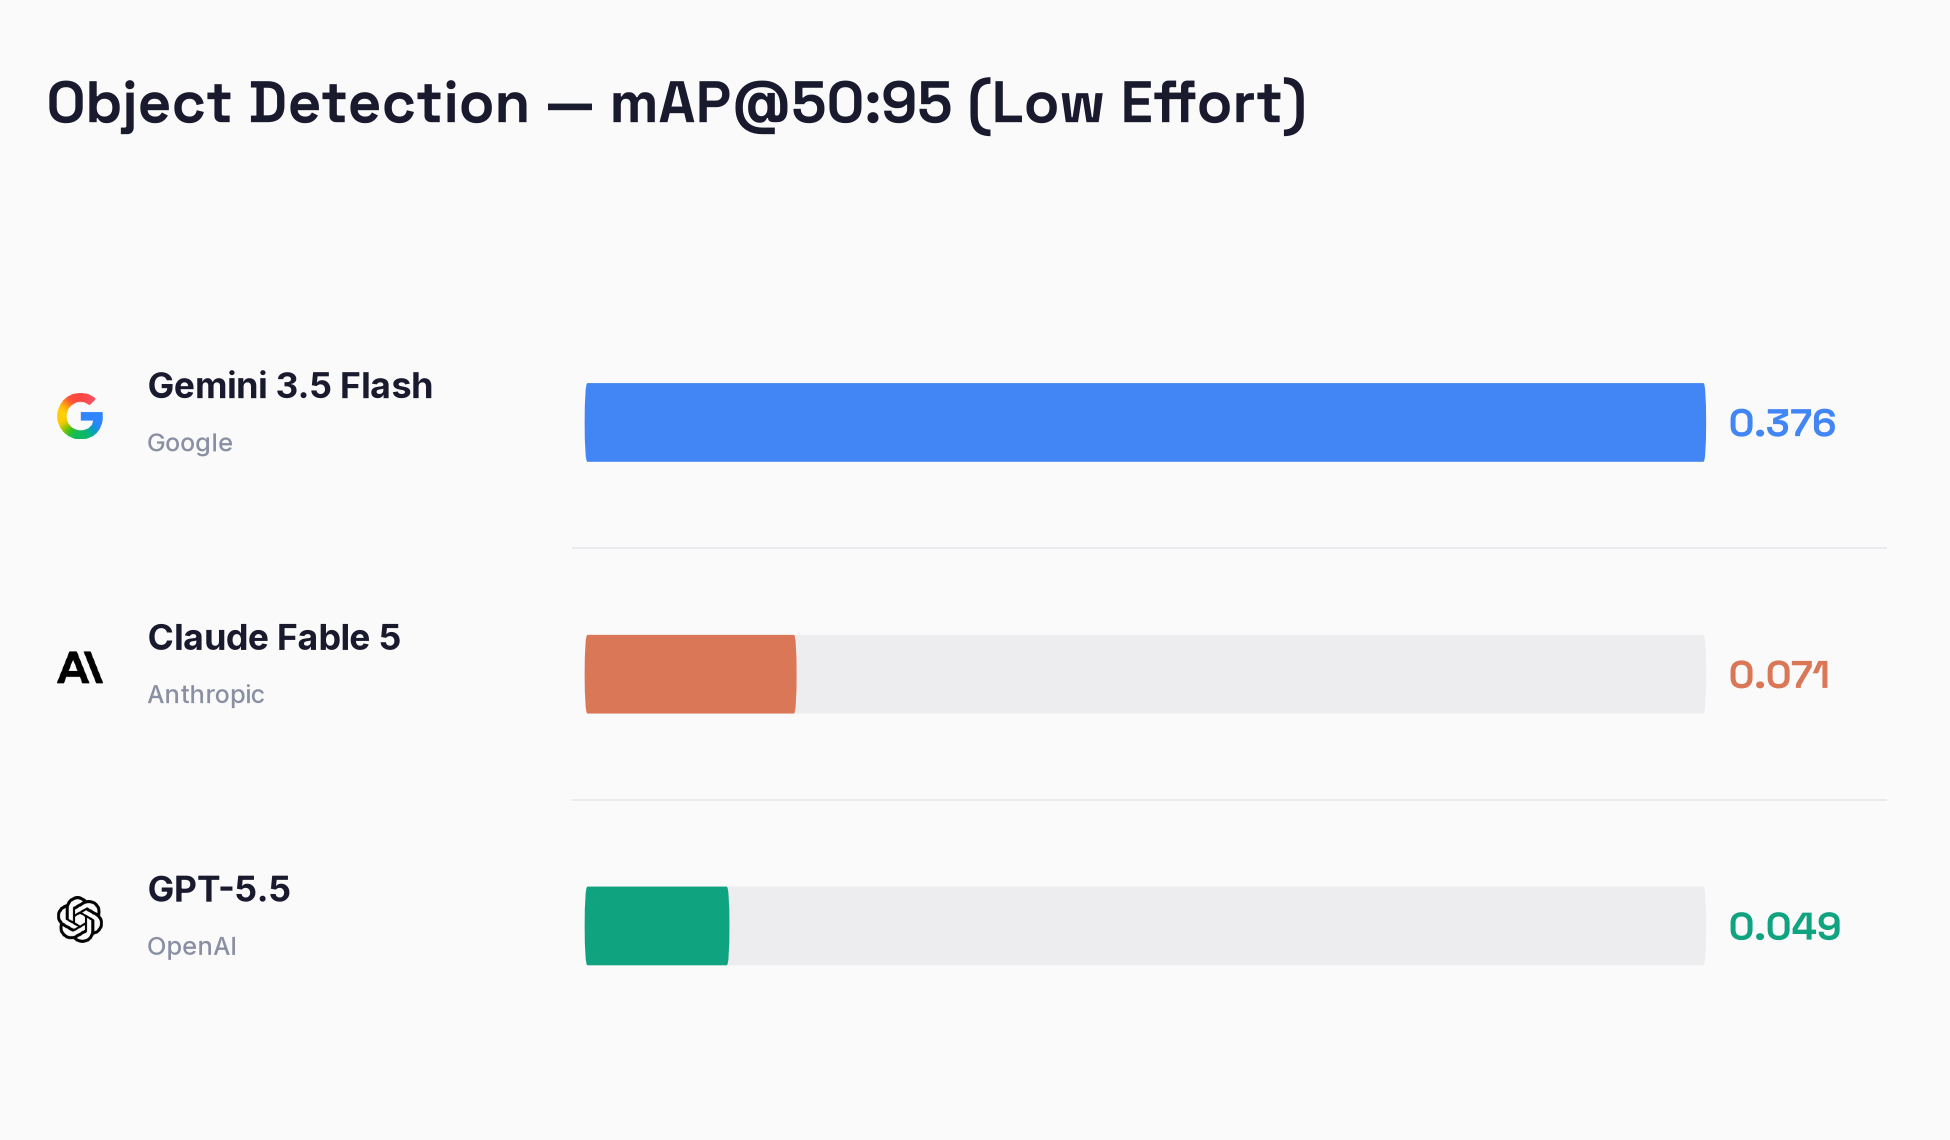
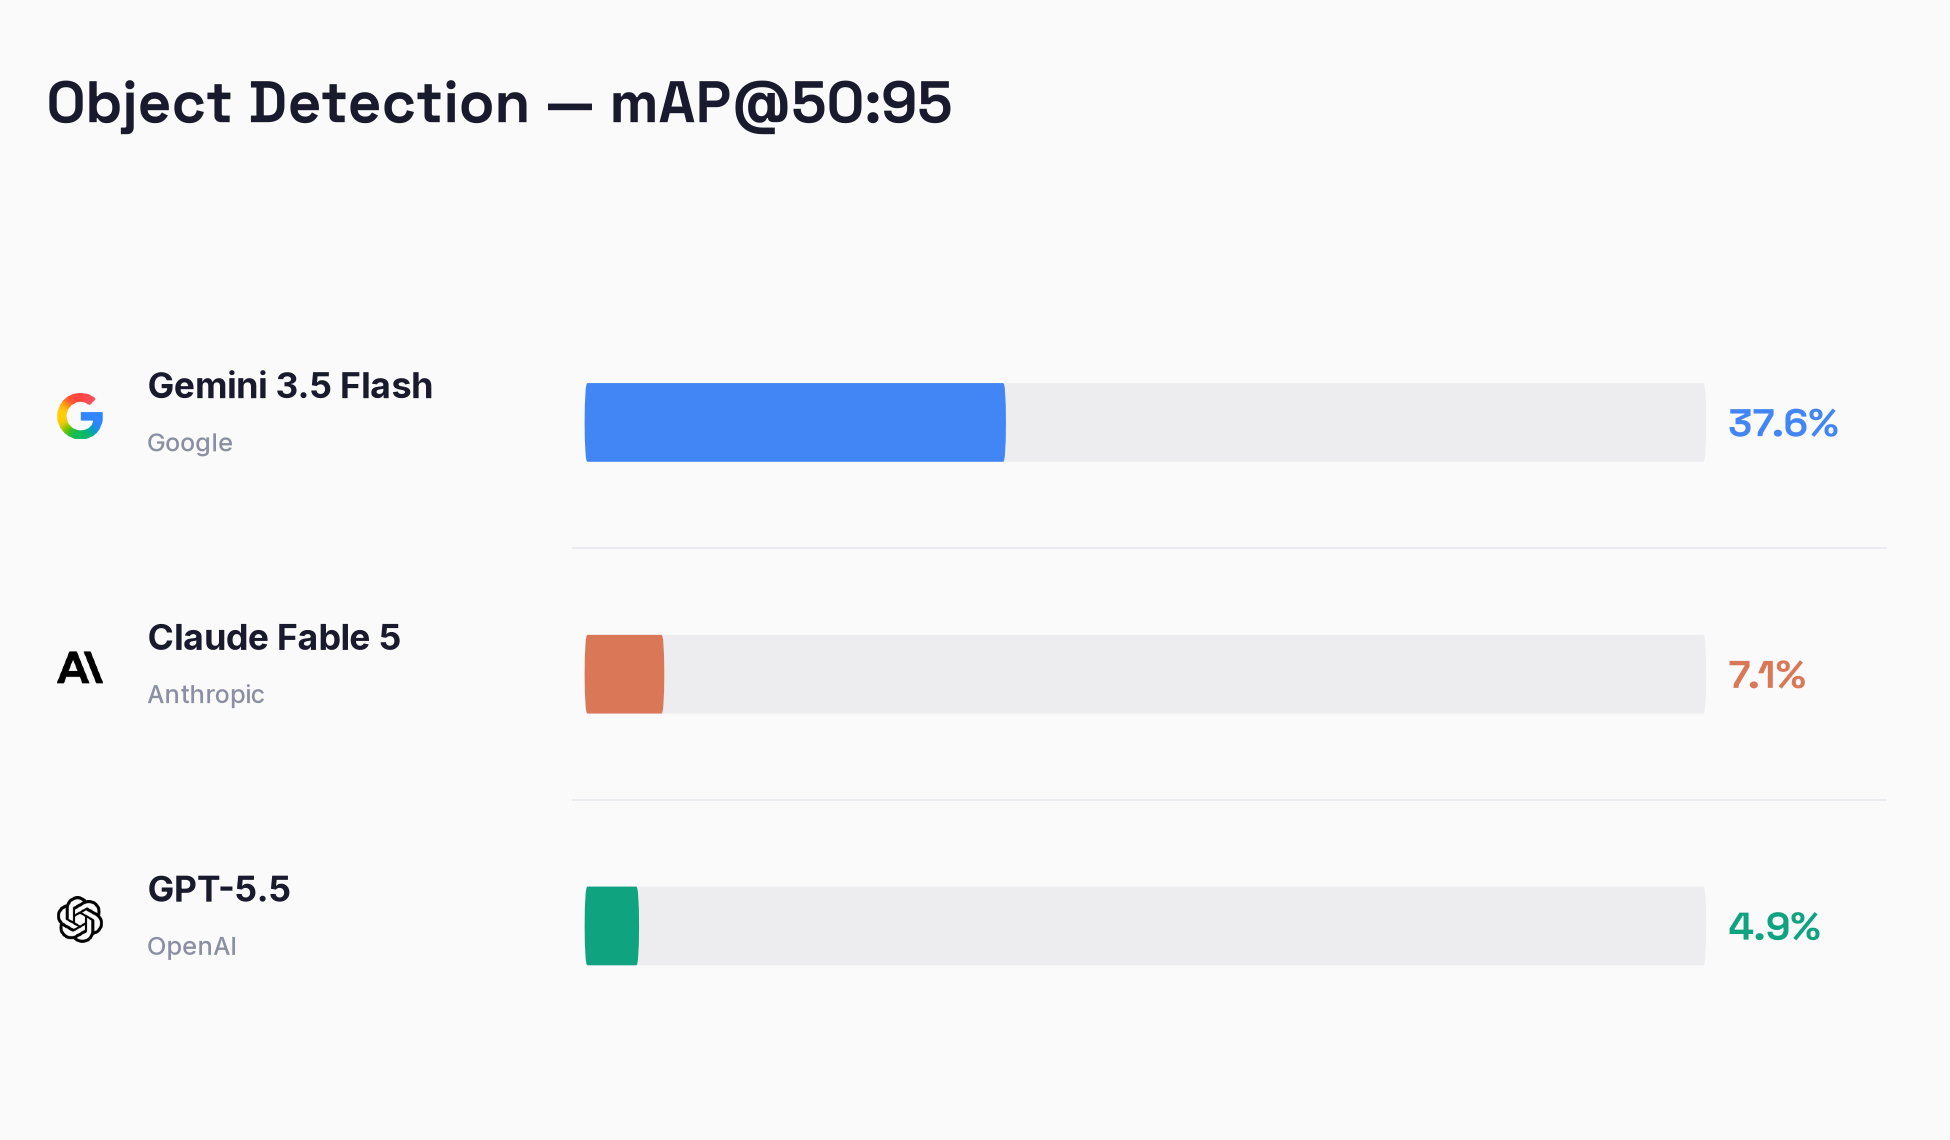
Use absolute percentage scale on detection leaderboard bars and drop effort suffix from chart titles

diff --git a/src/vlm_exam/cli.py b/src/vlm_exam/cli.py
@@ -405,7 +405,7 @@ def leaderboard(
             figure = plot_accuracy_chart(
                 accuracy,
                 config,
-                f"VQA / OCR Benchmark \u2014 {effort.title()} Effort",
+                "VQA / OCR Benchmark",
             )
             save_figure(figure, f"vqa_accuracy_{effort}.png")
 
@@ -442,10 +442,10 @@ def leaderboard(
                 figure = plot_metric_chart(
                     values,
                     config,
-                    f"Object Detection \u2014 {metric_titles[metric_key]} "
-                    f"({effort.title()} Effort)",
-                    format_value=lambda value: f"{value:.3f}",
+                    f"Object Detection \u2014 {metric_titles[metric_key]}",
+                    format_value=lambda value: f"{value * 100:.1f}%",
                     sort_ascending=False,
+                    full_scale=1.0,
                 )
                 save_figure(figure, f"detection_{metric_key}_{effort}.png")
 

diff --git a/src/vlm_exam/visualization/charts.py b/src/vlm_exam/visualization/charts.py
@@ -216,6 +216,7 @@ def plot_metric_chart(
     title: str,
     format_value: Callable[[float], str],
     sort_ascending: bool = True,
+    full_scale: float | None = None,
 ) -> plt.Figure:
     """Single-bar horizontal chart for one metric across models.
 
@@ -225,6 +226,8 @@ def plot_metric_chart(
         title: Chart title.
         format_value: Callable to format the metric value as a string.
         sort_ascending: Whether to sort models from lowest to highest.
+        full_scale: Value that corresponds to a full-length bar. When
+            ``None``, bars are scaled relative to the highest value.
 
     Returns:
         Matplotlib figure.
@@ -241,8 +244,8 @@ def plot_metric_chart(
     bar_height = 0.50
     corner_radius = bar_height / 2
 
-    max_value = max(metric.values())
-    scale = 100.0 / max_value if max_value > 0 else 1.0
+    reference = full_scale if full_scale is not None else max(metric.values())
+    scale = 100.0 / reference if reference > 0 else 1.0
     bar_max = 100
 
     figure_height = max(4.0, count * row_spacing + 2.8)

diff --git a/README.md b/README.md
@@ -22,10 +22,6 @@ Stricter IoU thresholds:
 [mAP@75](visualizations/leaderboards/detection_map75_low.png) |
 [mAP@50:95](visualizations/leaderboards/detection_map50_95_low.png)
 
-### VQA / OCR
-
-![VQA accuracy leaderboard](visualizations/leaderboards/vqa_accuracy_low.png)
-
 ## Supported providers
 
 - Anthropic (Claude)